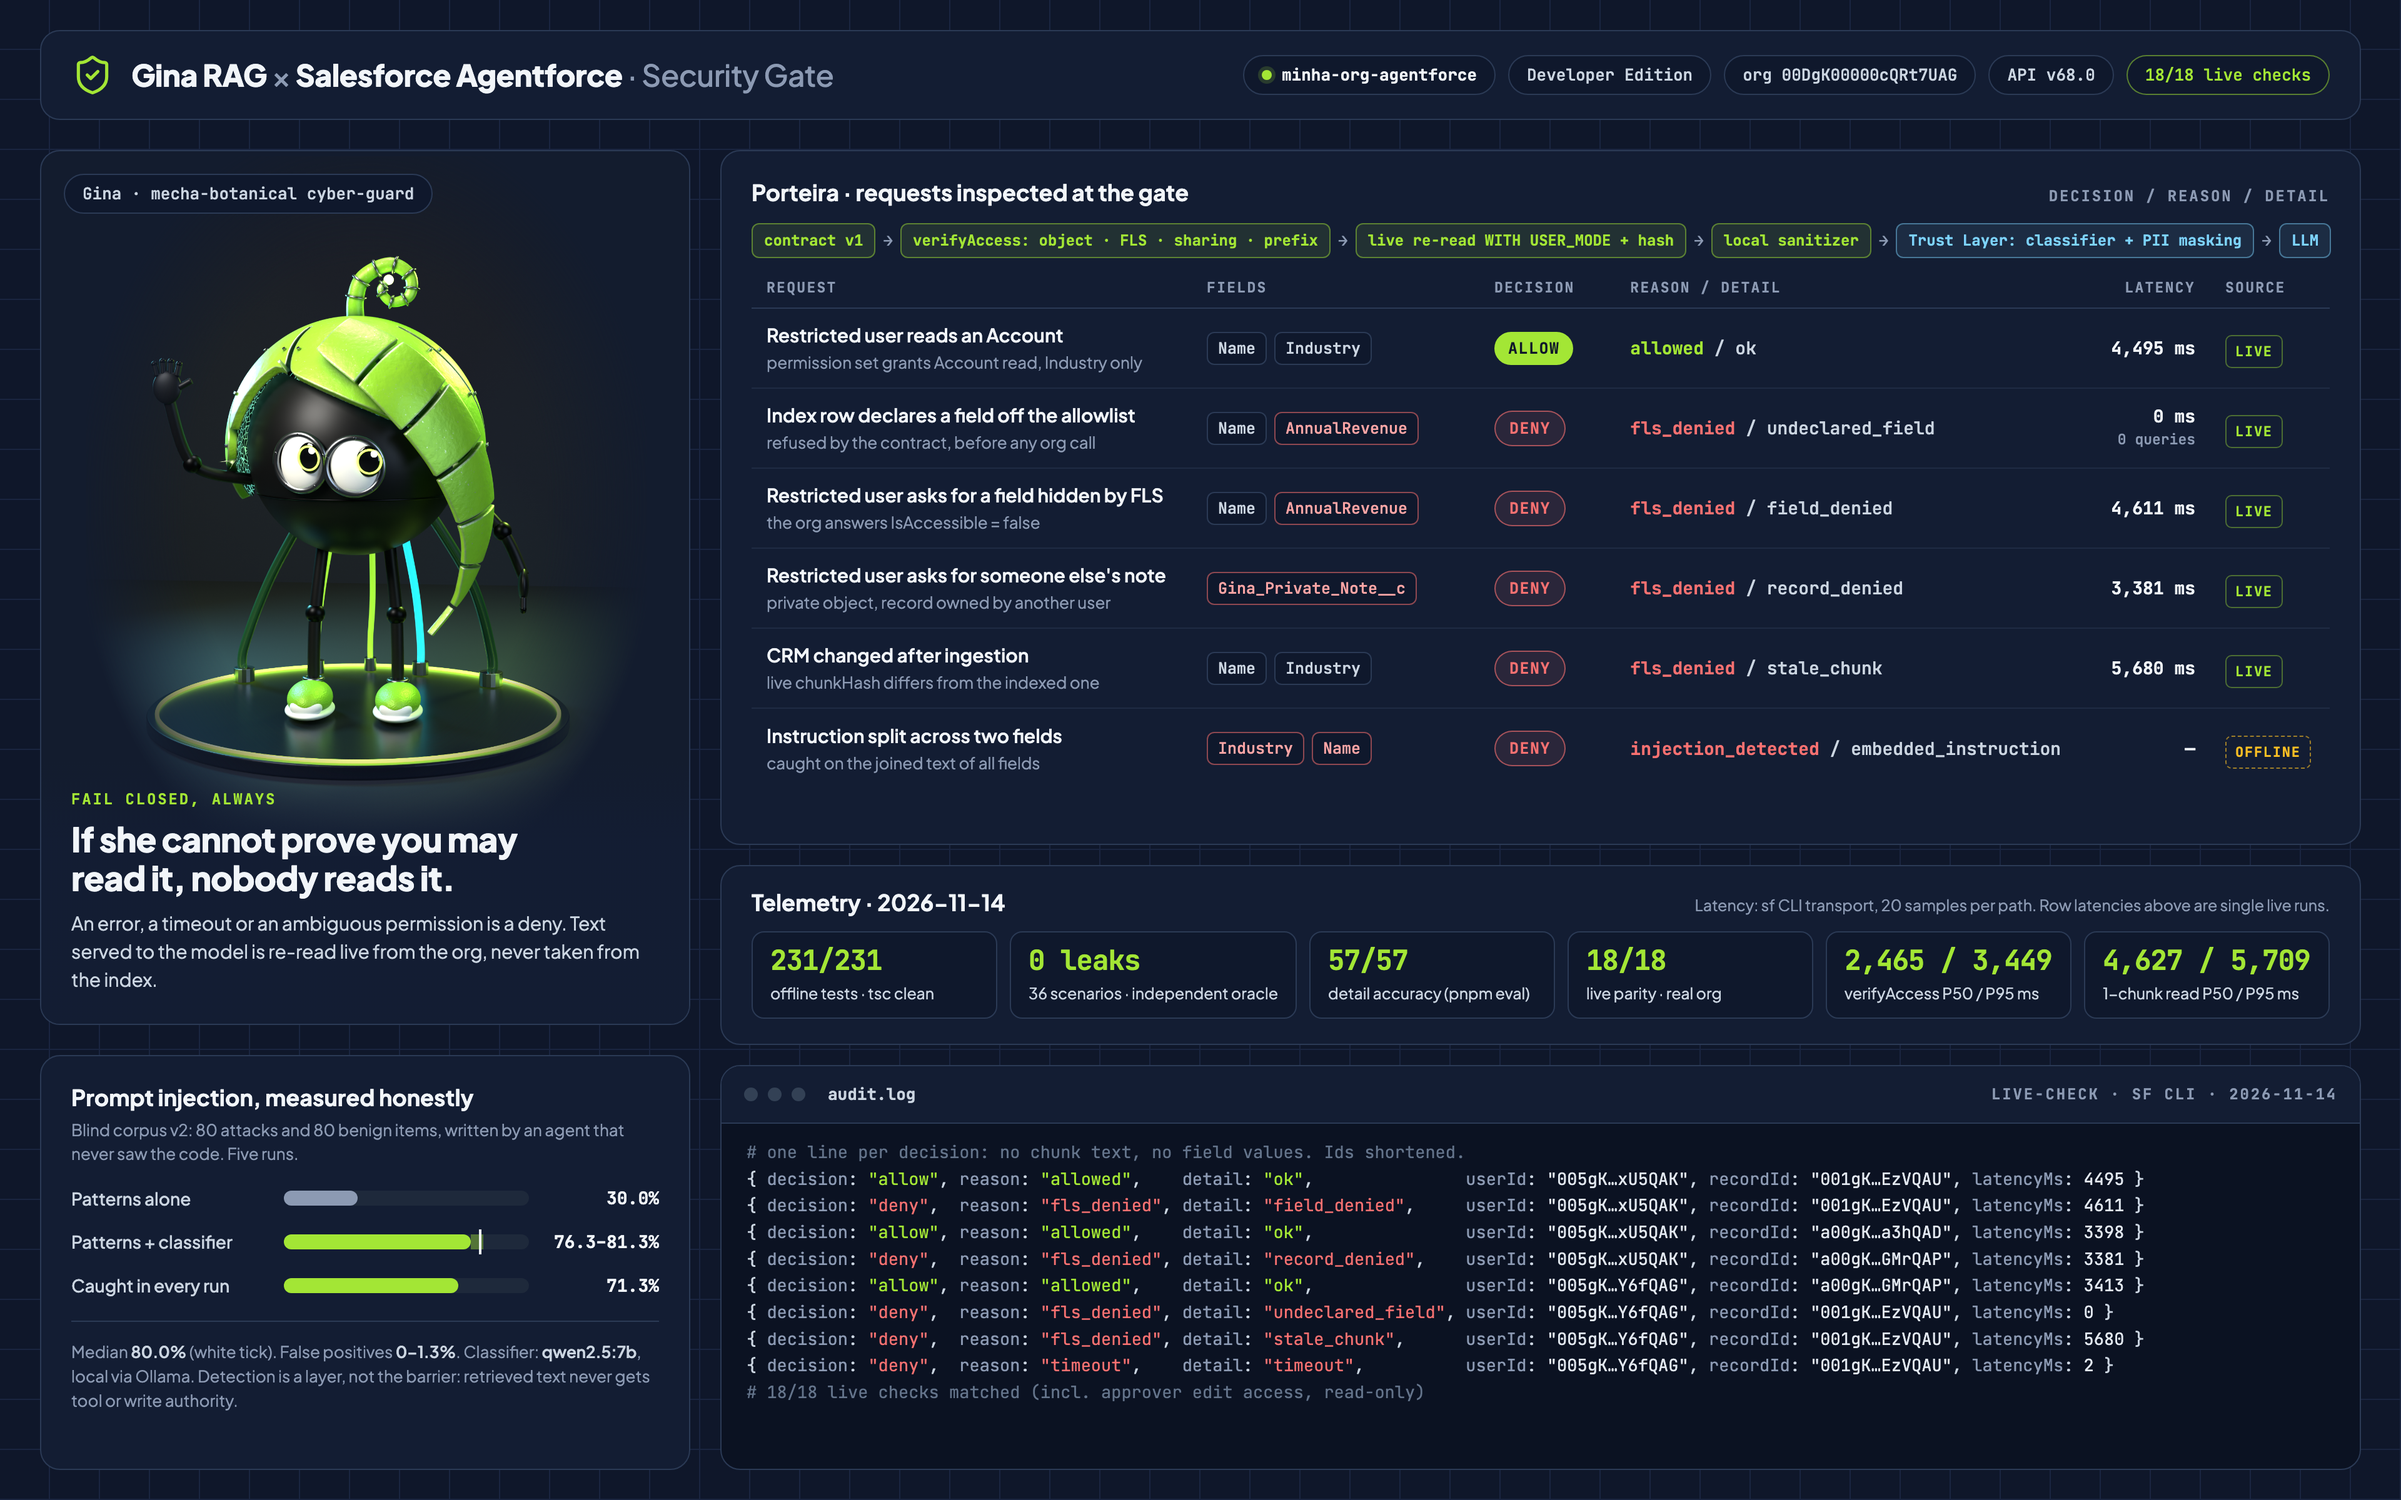
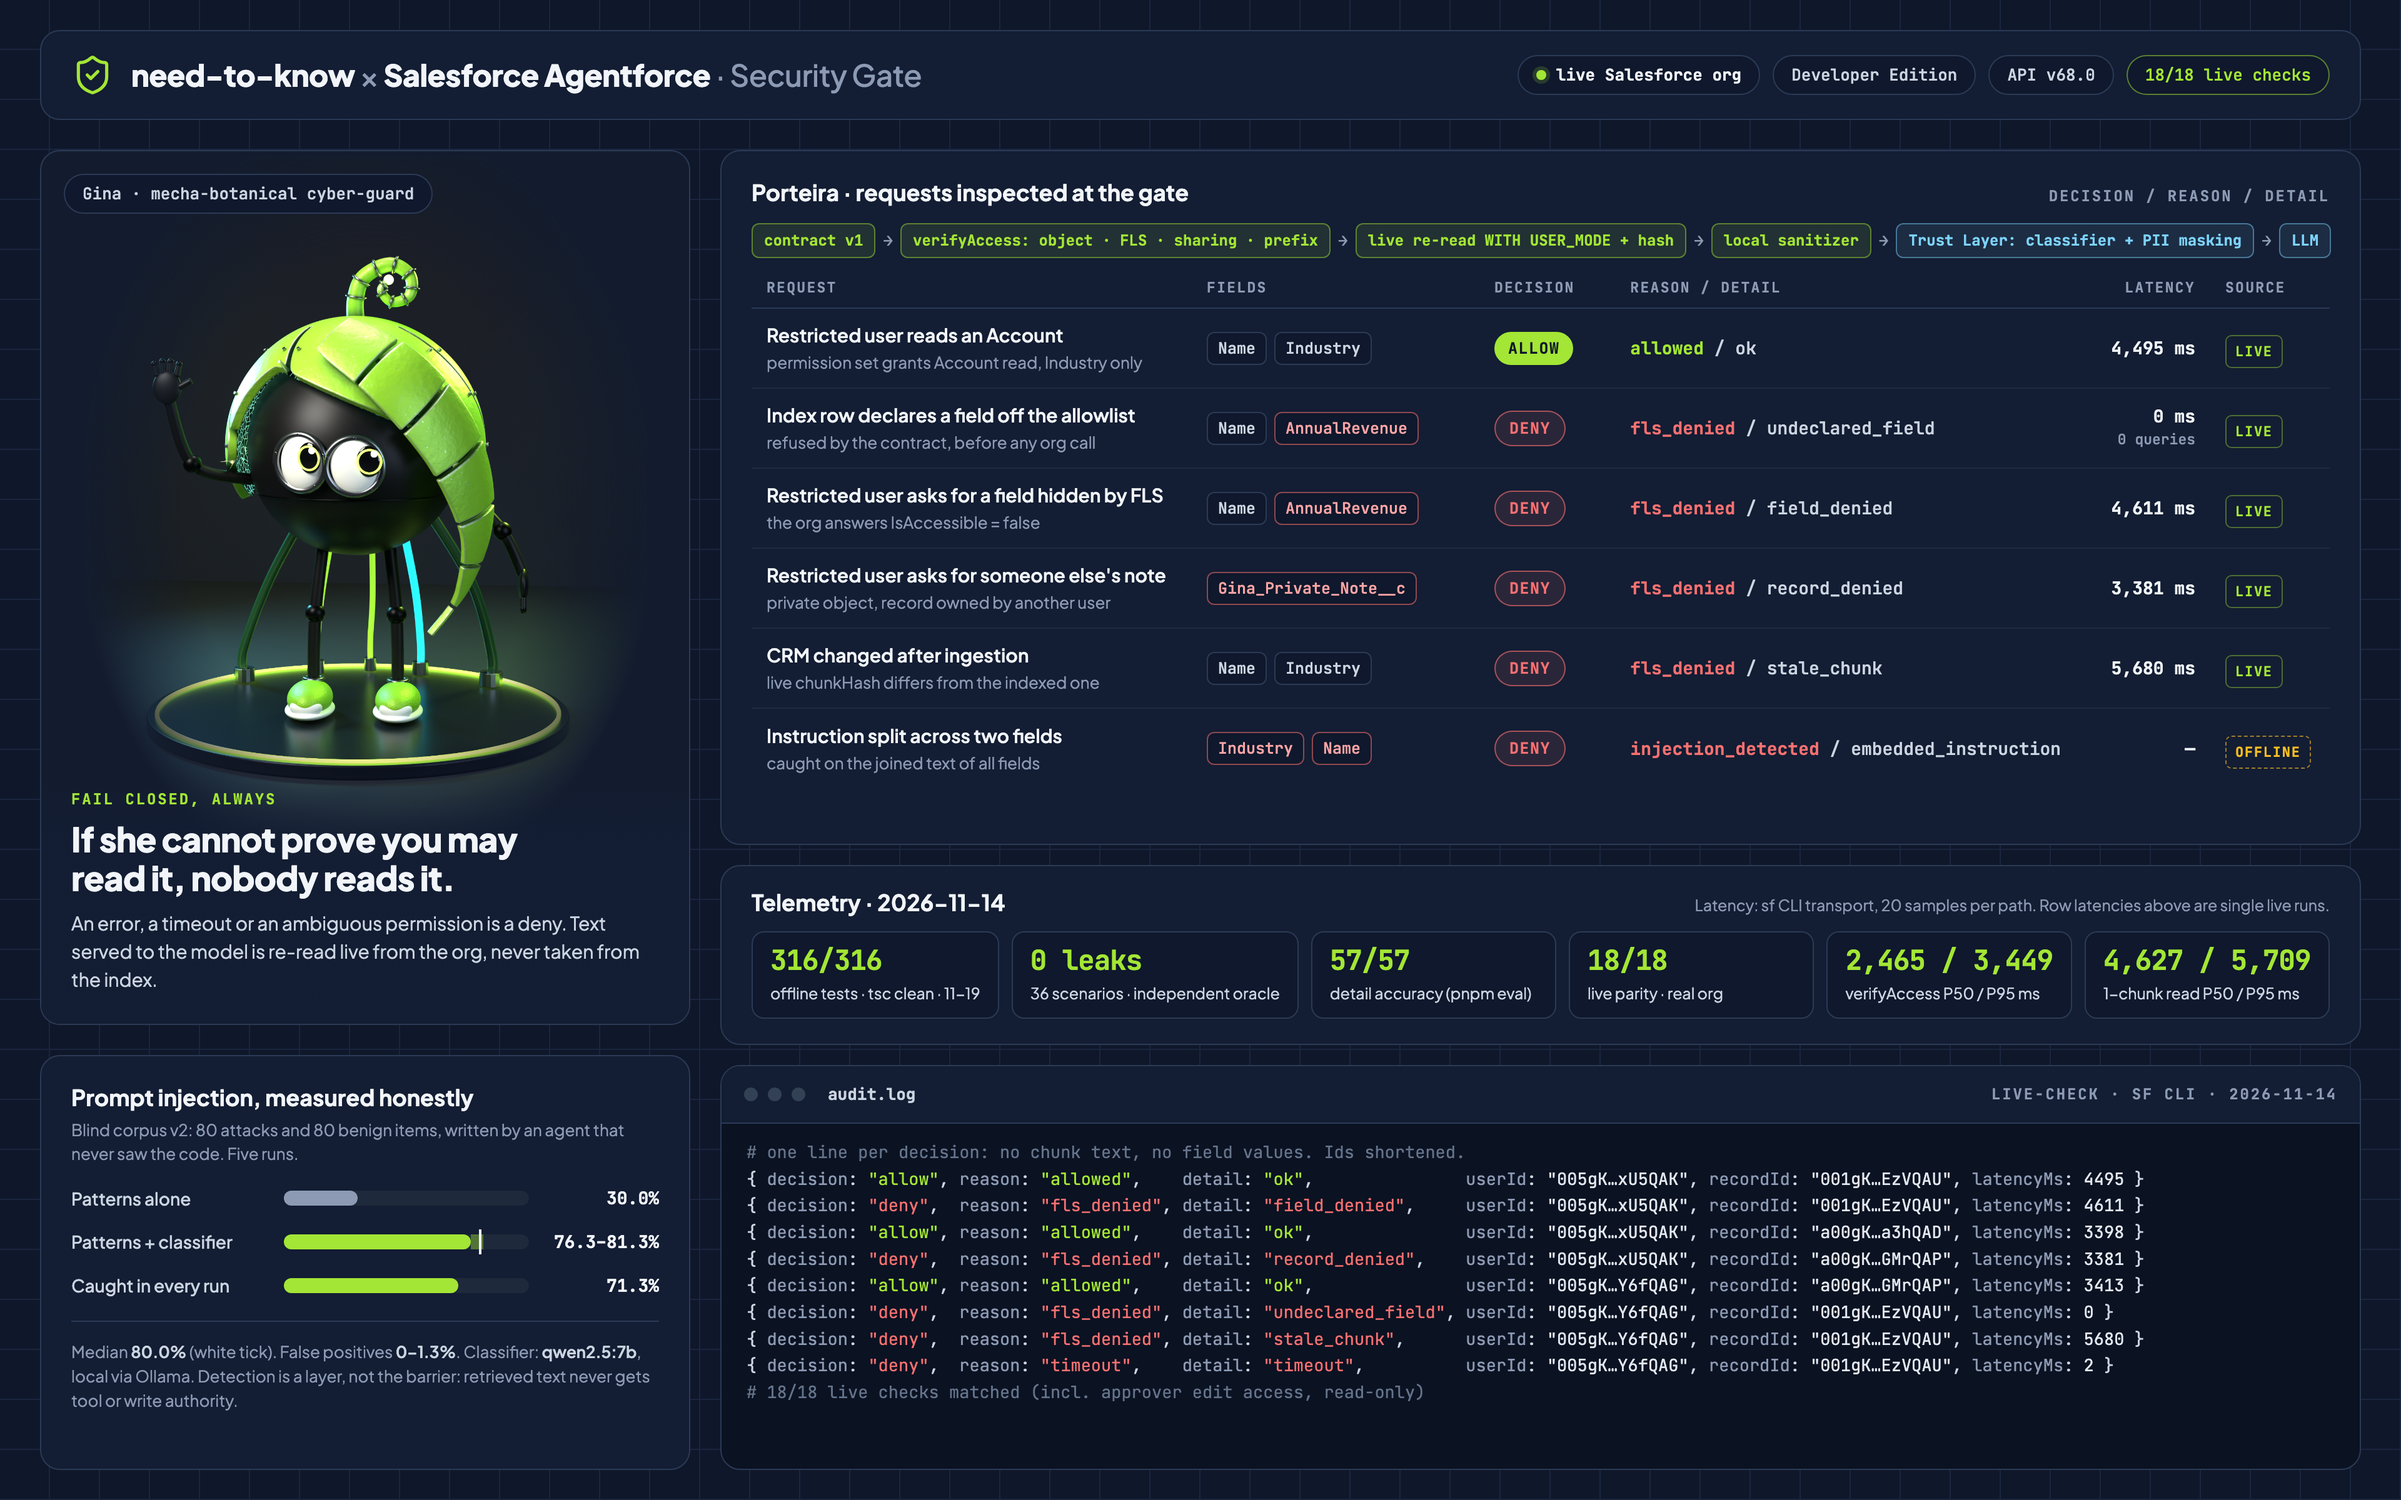
docs(showcase): need-to-know name, no org alias, current test count
The header named the org alias, which PR #2 moved out of the published
tree; it now reads "live Salesforce org". Title uses the project name, and
the tests tile shows the 316/316 measured on 2026-11-19. Screen recaptured.

diff --git a/design/showcase/index.html b/design/showcase/index.html
@@ -3,9 +3,9 @@
 <head>
 <meta charset="utf-8">
 <meta name="viewport" content="width=1920">
-<title>Gina RAG Security Gate</title>
+<title>need-to-know Security Gate</title>
 <!--
-  Showcase screen: Gina RAG x Salesforce Agentforce Security Gate.
+  Showcase screen: need-to-know x Salesforce Agentforce Security Gate.
   Every decision and latency comes from `scripts/live-check.ts` (sf CLI transport,
   2026-11-14) except the split-field injection case, which is from the offline suite.
   Capture: node design/showcase/capture.mjs
@@ -151,10 +151,10 @@
     <svg width="34" height="34" viewBox="0 0 24 24" fill="none" stroke="#A3E635" stroke-width="1.8" stroke-linecap="round" stroke-linejoin="round" aria-hidden="true">
       <path d="M20 13c0 5-3.5 7.5-7.66 8.95a1 1 0 0 1-.67-.01C7.5 20.5 4 18 4 13V6a1 1 0 0 1 1-1c2 0 4.5-1.2 6.24-2.72a1.17 1.17 0 0 1 1.52 0C14.51 3.81 17 5 19 5a1 1 0 0 1 1 1z"/><path d="m9 12 2 2 4-4"/>
     </svg>
-    <h1>Gina RAG <span>×</span> Salesforce Agentforce <span>· Security Gate</span></h1>
+    <h1>need-to-know <span>×</span> Salesforce Agentforce <span>· Security Gate</span></h1>
   </div>
   <div class="org">
-    <span class="pill"><span class="dot"></span><b>minha-org-agentforce</b></span>
+    <span class="pill"><span class="dot"></span><b>live Salesforce org</b></span>
     <span class="pill">Developer Edition</span>
     <span class="pill">API v68.0</span>
     <span class="pill live">18/18 live checks</span>
@@ -278,7 +278,7 @@
 <section class="card panel tele">
   <div class="head"><h3>Telemetry · 2026-11-14</h3><p class="note">Latency: sf CLI transport, 20 samples per path. Row latencies above are single live runs.</p></div>
   <div class="tiles">
-    <div class="tile"><b>231/231</b><span>offline tests · tsc clean</span></div>
+    <div class="tile"><b>316/316</b><span>offline tests · tsc clean · 11-19</span></div>
     <div class="tile"><b>0 leaks</b><span>36 scenarios · independent oracle</span></div>
     <div class="tile"><b>57/57</b><span>detail accuracy (pnpm eval)</span></div>
     <div class="tile"><b>18/18</b><span>live parity · real org</span></div>
